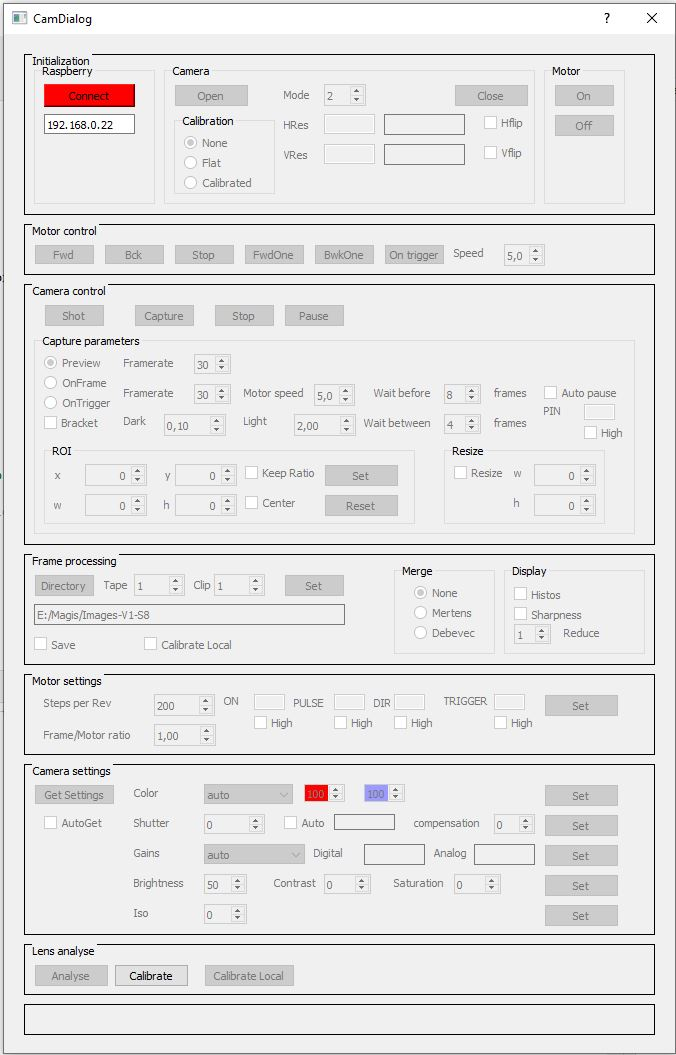
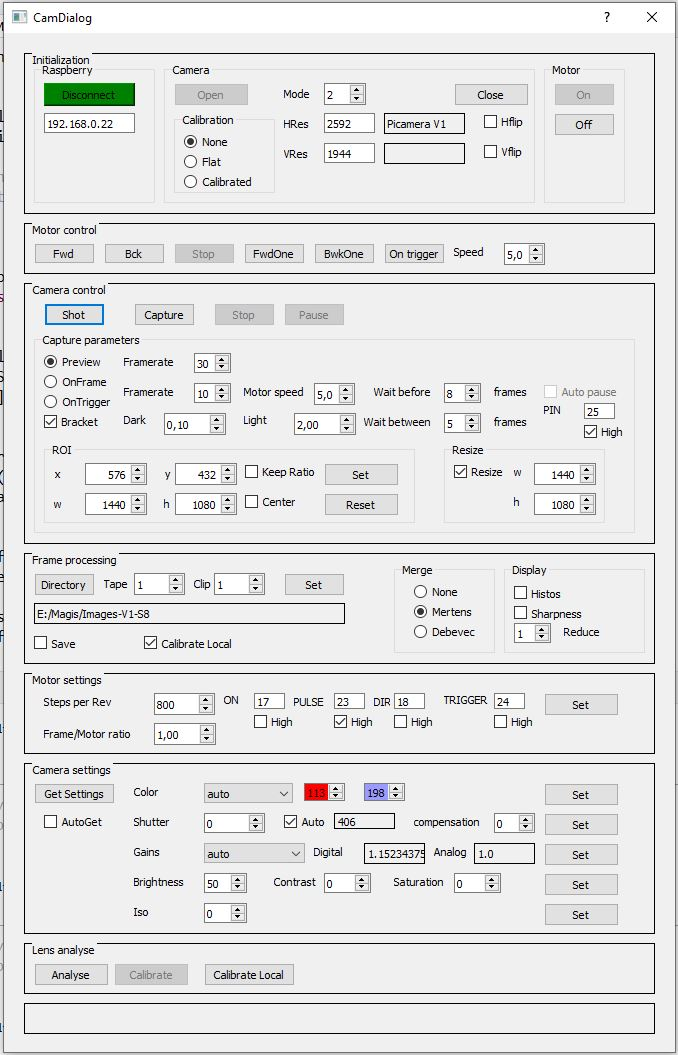
Update
Displaying lens analyze histogramms with PyQt instaed of matplotlib

diff --git a/GUIControl/TelecineApplication.py b/GUIControl/TelecineApplication.py
@@ -69,6 +69,7 @@ class TelecineDialog(QDialog, Ui_TelecineDialog):
         self.lensAnalyseButton.setEnabled(False)
         self.calibrateLocalButton.setEnabled(False)
         self.imageDialog = None
+        self.plotDialog = None
 
 #        self.whiteBalanceButton.setEnabled(False)
 
@@ -295,7 +296,6 @@ class TelecineDialog(QDialog, Ui_TelecineDialog):
            
     def setROI(self) :
         roi = (self.ROIxBox.value()/self.resolution[0],self.ROIyBox.value()/self.resolution[1],self.ROIwBox.value()/self.resolution[0],self.ROIhBox.value()/self.resolution[1])
-        print(roi)
         self.sock.sendObject((SET_CAMERA_SETTINGS, {'zoom' : roi}))
 
     def resetROI(self):
@@ -481,7 +481,6 @@ class TelecineDialog(QDialog, Ui_TelecineDialog):
         self.sock.sendObject((SET_CAMERA_SETTINGS, settings))
     
     def setShutterSpeed(self):
-        print("Shuuter")
         self.sock.sendObject((SET_CAMERA_SETTINGS, {'shutter_speed':self.shutterSpeedBox.value(), 'exposure_compensation':self.exposureCompensationBox.value()}))
                  
 
@@ -560,6 +559,12 @@ class TelecineDialog(QDialog, Ui_TelecineDialog):
         self.imageDialog.show()
         self.imageDialog.displayImage(image)
             
+    def displayPlot(self, image) :
+        if self.plotDialog == None :
+            self.plotDialog = PlotDialog(self)
+        self.plotDialog.show()
+        self.plotDialog.displayImage(image)
+        
     def connectDisconnect(self) :
         if self.connected :
             self.disconnect()
@@ -581,6 +586,7 @@ class TelecineDialog(QDialog, Ui_TelecineDialog):
         self.imageThread = ImageThread(self.ip_pi)
         self.imageThread.headerSignal.connect(self.displayHeader)
         self.imageThread.imageSignal.connect(self.displayImage)
+        self.imageThread.plotSignal.connect(self.displayPlot)
         self.imageThread.start()
         self.getMotorSettings()
         self.cameraGroupBox.setEnabled(True)
@@ -641,6 +647,25 @@ class ImageDialog(QDialog) :
             painter.drawImage(0, 0, self.mQImage)
         painter.end()
     
+class PlotDialog(QDialog) :
+    def __init__(self, parent):
+        super(PlotDialog, self).__init__(parent)
+        self.setWindowTitle("Plot")
+        self.mQImage = None
+        
+    def displayImage(self, image):
+        height, width, byteValue=image.shape
+        byteValue=byteValue*width
+        self.mQImage = QImage(image, width, height, byteValue, QImage.Format_RGB888)
+        self.setFixedSize(width, height)
+        self.update()
+
+    def paintEvent(self, QPaintEvent):
+        painter = QPainter()
+        painter.begin(self)
+        if self.mQImage != None:
+            painter.drawImage(0, 0, self.mQImage)
+        painter.end()
 
 commandDialog = None
 #For getting exception while in QT        

diff --git a/GUIControl/ImageThread.py b/GUIControl/ImageThread.py
@@ -17,8 +17,9 @@ from MessageSocket import *
 #Focus your lens to have the maximum sharpness  
  
 class ImageThread (QThread):
-    imageSignal = pyqtSignal([object,])   #Signal to the GUI display histo
+    imageSignal = pyqtSignal([object,])   #Signal to the GUI display image
     headerSignal = pyqtSignal([object,])  #Signal to the GUI display header
+    plotSignal = pyqtSignal([object,])  #Signal to the GUI display analyze
     merge = MERGE_NONE
     sharpness = False
     saveToFile = False
@@ -163,7 +164,6 @@ class ImageThread (QThread):
             image = image.astype(np.uint8)
         x = image.shape[0]/image.shape[1]
         diag = np.empty((image.shape[1],3))
-        print(diag.shape)
         for i in range(image.shape[1]) :  #3280
             j = int(i * x)
             diag[i,:] = image[j,i,:]
@@ -183,7 +183,12 @@ class ImageThread (QThread):
         for i,col in enumerate(colors):
             axe.plot(diag[:, i],color = col) #Diagonal
 #        figure.subplots_adjust(top=0.85)
-        plt.show()
+        figure.tight_layout()
+        figure.canvas.draw()
+        w, h  = figure.canvas.get_width_height()
+        image = np.fromstring ( figure.canvas.tostring_rgb(), dtype=np.uint8 ).reshape(h,w,3)
+        self.plotSignal.emit(image) #«display plot in the GUI
+#        plt.show()
 
 #Normalize each channel toward the Min
     def calibrate(self, header) :

diff --git a/Common/MessageSocket.py b/Common/MessageSocket.py
@@ -80,7 +80,6 @@ class MessageSocket() :
 #Receive a numpy array        
     def receiveArray(self):
         infos = self.receiveObject()
-        print (infos)
         size = infos[0]
         buf = self.read(size)
         return np.frombuffer(buf, infos[2]).reshape(infos[1])
